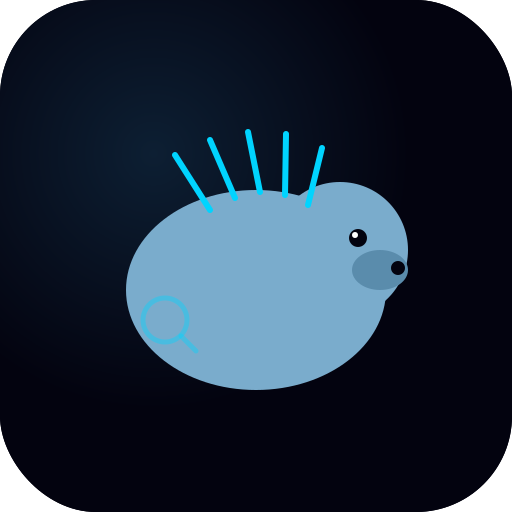
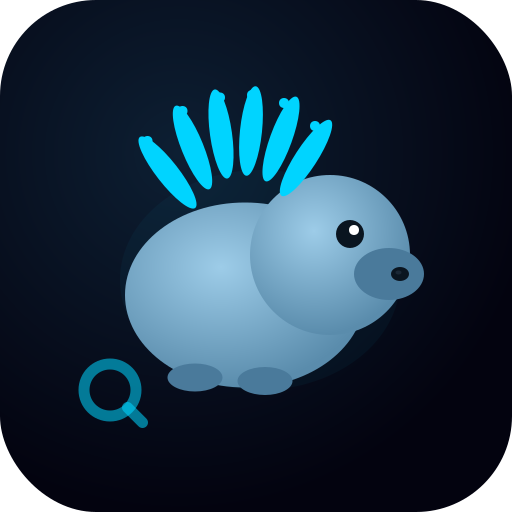
Updates

diff --git a/index.html b/index.html
@@ -4,11 +4,11 @@
     <meta charset="UTF-8" />
     <meta name="viewport" content="width=device-width, initial-scale=1.0" />
     <title>Twitter Search Builder</title>
-    <link rel="manifest" href="/Tweetelligent/manifest.json" />
+    <link rel="manifest" href="/Tweetelligent/dist/manifest.json" />
     <link rel="manifest" href="/manifest.webmanifest">
     <meta name="theme-color" content="#000000">
-    <script type="module" crossorigin src="/Tweetelligent/assets/index-BYCRjX7I.js"></script>
-  <link rel="manifest" href="/Tweetelligent/manifest.webmanifest"><script id="vite-plugin-pwa:register-sw" src="/Tweetelligent/registerSW.js"></script></head>
+    <script type="module" crossorigin src="/Tweetelligent/dist/assets/index-BYCRjX7I.js"></script>
+  <link rel="manifest" href="/Tweetelligent/dist/manifest.webmanifest"><script id="vite-plugin-pwa:register-sw" src="/Tweetelligent/dist/registerSW.js"></script></head>
   <body>
     <div id="root"></div>
   </body>

diff --git a/registerSW.js b/registerSW.js
@@ -1,1 +1,1 @@
-if('serviceWorker' in navigator) {window.addEventListener('load', () => {navigator.serviceWorker.register('/Tweetelligent/sw.js', { scope: '/Tweetelligent/' })})}
+if('serviceWorker' in navigator) {window.addEventListener('load', () => {navigator.serviceWorker.register('/Tweetelligent/dist/sw.js', { scope: '/Tweetelligent/dist/' })})}

diff --git a/sw.js b/sw.js
@@ -1,1 +1,1 @@
-if(!self.define){let e,i={};const n=(n,r)=>(n=new URL(n+".js",r).href,i[n]||new Promise(i=>{if("document"in self){const e=document.createElement("script");e.src=n,e.onload=i,document.head.appendChild(e)}else e=n,importScripts(n),i()}).then(()=>{let e=i[n];if(!e)throw new Error(`Module ${n} didn’t register its module`);return e}));self.define=(r,s)=>{const t=e||("document"in self?document.currentScript.src:"")||location.href;if(i[t])return;let o={};const c=e=>n(e,t),l={module:{uri:t},exports:o,require:c};i[t]=Promise.all(r.map(e=>l[e]||c(e))).then(e=>(s(...e),o))}}define(["./workbox-9c191d2f"],function(e){"use strict";self.skipWaiting(),e.clientsClaim(),e.precacheAndRoute([{url:"registerSW.js",revision:"750142d48cfed62af8024060bbfe45ed"},{url:"index.html",revision:"a26ca6f2b311068b314085ae425446c2"},{url:"assets/index-BYCRjX7I.js",revision:null},{url:"icon-192.png",revision:"f29a3a79aeb18be98b73f1d57b721f86"},{url:"icon-512.png",revision:"cb86b96ee7af7fecca190ebdae017280"},{url:"manifest.webmanifest",revision:"9546c57664bb6495be92dd114dca4c6e"}],{}),e.cleanupOutdatedCaches(),e.registerRoute(new e.NavigationRoute(e.createHandlerBoundToURL("index.html")))});
+if(!self.define){let e,i={};const n=(n,r)=>(n=new URL(n+".js",r).href,i[n]||new Promise(i=>{if("document"in self){const e=document.createElement("script");e.src=n,e.onload=i,document.head.appendChild(e)}else e=n,importScripts(n),i()}).then(()=>{let e=i[n];if(!e)throw new Error(`Module ${n} didn’t register its module`);return e}));self.define=(r,s)=>{const t=e||("document"in self?document.currentScript.src:"")||location.href;if(i[t])return;let o={};const d=e=>n(e,t),c={module:{uri:t},exports:o,require:d};i[t]=Promise.all(r.map(e=>c[e]||d(e))).then(e=>(s(...e),o))}}define(["./workbox-9c191d2f"],function(e){"use strict";self.skipWaiting(),e.clientsClaim(),e.precacheAndRoute([{url:"registerSW.js",revision:"995dc39f1e1bccfc12f6d09a37dd8d4b"},{url:"index.html",revision:"c7905a9e0b6145aed64973343eef8717"},{url:"assets/index-BYCRjX7I.js",revision:null},{url:"icon-192.png",revision:"51b322ea99b62de0258e0bd3a08129af"},{url:"icon-512.png",revision:"4fc27801e483756be74e9d3aa5c7de00"},{url:"manifest.webmanifest",revision:"189e835f779ea28be155c98900f65bdd"}],{}),e.cleanupOutdatedCaches(),e.registerRoute(new e.NavigationRoute(e.createHandlerBoundToURL("index.html")))});